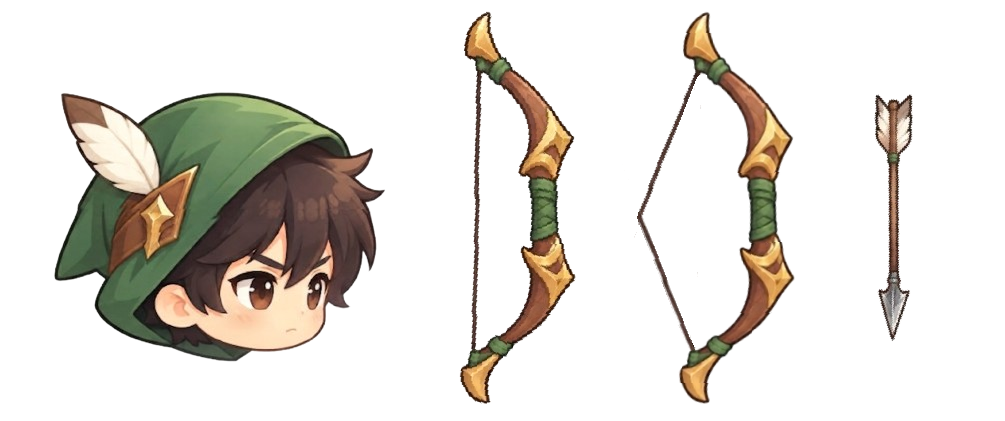
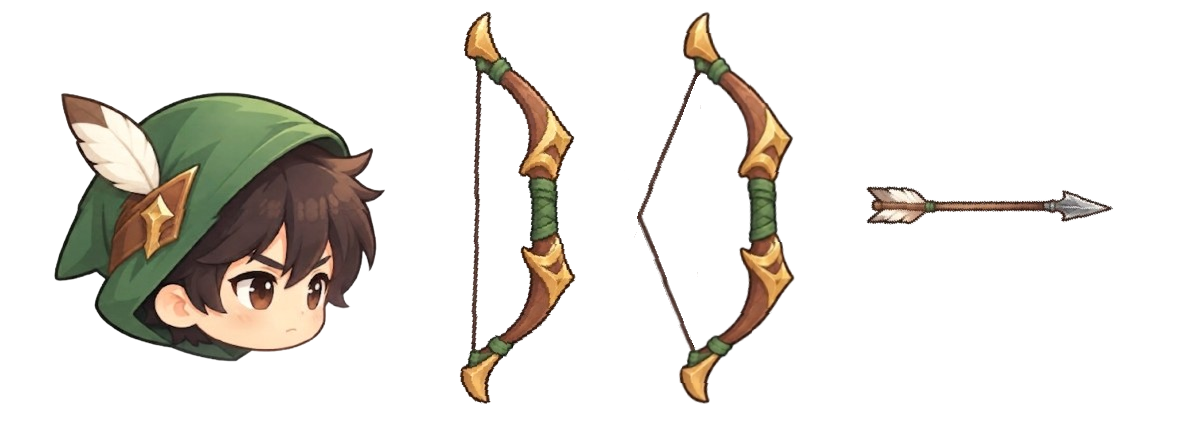
Update: Arrow Aim

Changed region(s): [[0.0308, 0.0309, 0.6786, 0.9572], [0.6786, 0.0309, 0.9562, 0.9572]]

diff --git a/Assets/Scripts/Objects/Player/BasicAttack.cs b/Assets/Scripts/Objects/Player/BasicAttack.cs
@@ -16,6 +16,7 @@ public class BasicAttack : MonoBehaviour
     private float attackTimer;
     private SpriteRenderer bowRenderer;
     private Sprite defaultBowSprite;
+    private Transform headTransform;
     private Transform arrowTransform;
     private Coroutine bowDrawRoutine;
     private Vector3 arrowRestLocalPosition;
@@ -28,6 +29,7 @@ public class BasicAttack : MonoBehaviour
             player = GetComponent<Player>();
         }
 
+        headTransform = transform.Find("Head");
         foreach (SpriteRenderer spriteRenderer in GetComponentsInChildren<SpriteRenderer>(true))
         {
             if (spriteRenderer.transform.name == "Bow")
@@ -72,6 +74,115 @@ public class BasicAttack : MonoBehaviour
 
     private void LaunchProjectile(Enemy target)
     {
+        if (bowDrawRoutine != null)
+        {
+            StopCoroutine(bowDrawRoutine);
+            if (bowRenderer != null)
+            {
+                bowRenderer.sprite = defaultBowSprite;
+            }
+
+            if (arrowTransform != null && hasArrowRestPosition)
+            {
+                arrowTransform.localPosition = arrowRestLocalPosition;
+            }
+        }
+
+        if (arrowTransform != null && !hasArrowRestPosition)
+        {
+            arrowRestLocalPosition = arrowTransform.localPosition;
+            hasArrowRestPosition = true;
+        }
+
+        bowDrawRoutine = StartCoroutine(DrawAndFire(target));
+    }
+
+    private IEnumerator DrawAndFire(Enemy target)
+    {
+        float duration = Mathf.Max(bowDrawDuration, 0.01f);
+        float pullbackDuration = duration * 0.6f;
+        Vector3 pulledBackLocalPosition = arrowRestLocalPosition;
+        if (arrowTransform != null)
+        {
+            Transform aimTransform = arrowTransform.parent;
+            Vector3 pullDirection = headTransform != null
+                ? arrowTransform.position - headTransform.position
+                : aimTransform != null ? aimTransform.up : arrowTransform.up;
+            if (pullDirection.sqrMagnitude <= Mathf.Epsilon)
+            {
+                pullDirection = aimTransform != null ? aimTransform.up : arrowTransform.up;
+            }
+
+            pullDirection.Normalize();
+            Vector3 pullbackOffset = aimTransform != null
+                ? aimTransform.InverseTransformVector(pullDirection * arrowPullbackDistance)
+                : pullDirection * arrowPullbackDistance;
+            pulledBackLocalPosition -= pullbackOffset;
+        }
+
+        if (bowRenderer != null && drawingBowSprite != null)
+        {
+            bowRenderer.sprite = drawingBowSprite;
+        }
+
+        float elapsed = 0f;
+        while (elapsed < pullbackDuration)
+        {
+            elapsed += Time.deltaTime;
+            float progress = Mathf.SmoothStep(0f, 1f, Mathf.Clamp01(elapsed / pullbackDuration));
+            if (arrowTransform != null)
+            {
+                arrowTransform.localPosition = Vector3.Lerp(
+                    arrowRestLocalPosition,
+                    pulledBackLocalPosition,
+                    progress);
+            }
+
+            yield return null;
+        }
+
+        if (arrowTransform != null)
+        {
+            arrowTransform.localPosition = pulledBackLocalPosition;
+        }
+
+        if (target != null && !target.IsDead)
+        {
+            SpawnProjectile(target);
+        }
+
+        if (arrowTransform != null)
+        {
+            elapsed = 0f;
+            float releaseDuration = duration - pullbackDuration;
+            while (elapsed < releaseDuration)
+            {
+                elapsed += Time.deltaTime;
+                float progress = Mathf.SmoothStep(0f, 1f, Mathf.Clamp01(elapsed / releaseDuration));
+                arrowTransform.localPosition = Vector3.Lerp(
+                    pulledBackLocalPosition,
+                    arrowRestLocalPosition,
+                    progress);
+                yield return null;
+            }
+
+            arrowTransform.localPosition = arrowRestLocalPosition;
+        }
+        else
+        {
+            yield return new WaitForSeconds(duration - pullbackDuration);
+        }
+
+        if (bowRenderer != null)
+        {
+            bowRenderer.sprite = defaultBowSprite;
+        }
+
+        bowDrawRoutine = null;
+    }
+
+    private void SpawnProjectile(Enemy target)
+    {
         GameObject projectileSource = arrowTransform != null
             ? arrowTransform.gameObject
             : projectilePrefab;
@@ -102,82 +213,6 @@ public class BasicAttack : MonoBehaviour
         }
 
         projectile.Initialize(target, player.attackDamage, projectileSpeed, projectileColor);
-        PlayBowDraw();
-    }
-
-    private void PlayBowDraw()
-    {
-        if (bowRenderer == null || drawingBowSprite == null)
-        {
-            return;
-        }
-
-        if (bowDrawRoutine != null)
-        {
-            StopCoroutine(bowDrawRoutine);
-            bowRenderer.sprite = defaultBowSprite;
-            if (arrowTransform != null && hasArrowRestPosition)
-            {
-                arrowTransform.localPosition = arrowRestLocalPosition;
-            }
-        }
-
-        if (arrowTransform != null && !hasArrowRestPosition)
-        {
-            arrowRestLocalPosition = arrowTransform.localPosition;
-            hasArrowRestPosition = true;
-        }
-
-        bowDrawRoutine = StartCoroutine(ShowDrawingBow());
-    }
-
-    private IEnumerator ShowDrawingBow()
-    {
-        float duration = Mathf.Max(bowDrawDuration, 0.01f);
-        bowRenderer.sprite = drawingBowSprite;
-
-        if (arrowTransform != null)
-        {
-            Vector3 pulledBackPosition = arrowRestLocalPosition - Vector3.up * arrowPullbackDistance;
-            float elapsed = 0f;
-            const float pullbackPortion = 0.65f;
-
-            while (elapsed < duration)
-            {
-                elapsed += Time.deltaTime;
-                float progress = Mathf.Clamp01(elapsed / duration);
-                if (progress < pullbackPortion)
-                {
-                    float pullbackProgress = Mathf.SmoothStep(0f, 1f, progress / pullbackPortion);
-                    arrowTransform.localPosition = Vector3.Lerp(
-                        arrowRestLocalPosition,
-                        pulledBackPosition,
-                        pullbackProgress);
-                }
-                else
-                {
-                    float releaseProgress = Mathf.SmoothStep(
-                        0f,
-                        1f,
-                        (progress - pullbackPortion) / (1f - pullbackPortion));
-                    arrowTransform.localPosition = Vector3.Lerp(
-                        pulledBackPosition,
-                        arrowRestLocalPosition,
-                        releaseProgress);
-                }
-
-                yield return null;
-            }
-
-            arrowTransform.localPosition = arrowRestLocalPosition;
-        }
-        else
-        {
-            yield return new WaitForSeconds(duration);
-        }
-
-        bowRenderer.sprite = defaultBowSprite;
-        bowDrawRoutine = null;
     }
 
     private Enemy FindClosestEnemy()

diff --git a/Assets/Scripts/Objects/Player/BasicProjectile.cs b/Assets/Scripts/Objects/Player/BasicProjectile.cs
@@ -8,7 +8,6 @@ public class BasicProjectile : MonoBehaviour
     private float trailLength;
     private LineRenderer lineRenderer;
     private SpriteRenderer spriteRenderer;
-    private float spriteRotationOffset;
 
     public void Initialize(Enemy newTarget, int newDamage, float newSpeed, Color color)
     {
@@ -23,8 +22,7 @@ public class BasicProjectile : MonoBehaviour
         else
         {
             Vector3 initialDirection = (target.transform.position - transform.position).normalized;
-            float directionAngle = Mathf.Atan2(initialDirection.y, initialDirection.x) * Mathf.Rad2Deg;
-            spriteRotationOffset = transform.eulerAngles.z - directionAngle;
+            RotateArrowAlong(initialDirection);
         }
     }
 
@@ -54,8 +52,7 @@ public class BasicProjectile : MonoBehaviour
 
         if (spriteRenderer != null)
         {
-            float directionAngle = Mathf.Atan2(direction.y, direction.x) * Mathf.Rad2Deg;
-            transform.rotation = Quaternion.Euler(0f, 0f, directionAngle + spriteRotationOffset);
+            RotateArrowAlong(direction);
         }
         else if (lineRenderer != null)
         {
@@ -68,6 +65,12 @@ public class BasicProjectile : MonoBehaviour
             target.TakeDamage(damage);
             Destroy(gameObject);
         }
+    }
+
+    private void RotateArrowAlong(Vector3 direction)
+    {
+        float directionAngle = Mathf.Atan2(direction.y, direction.x) * Mathf.Rad2Deg;
+        transform.rotation = Quaternion.Euler(0f, 0f, directionAngle - 90f);
     }
 
     private void SetupLineRenderer(Color color)

diff --git a/Assets/Scripts/Objects/Player/Movement.cs b/Assets/Scripts/Objects/Player/Movement.cs
@@ -29,6 +29,7 @@ public class Movement : MonoBehaviour
     private float dashCooldownCounter;
     private bool dashRequested;
     private bool headFacesLeftByDefault;
+    private Quaternion arrowRestLocalRotation;
 
     private void Awake()
     {
@@ -83,6 +84,7 @@ public class Movement : MonoBehaviour
             if (arrowTransform != null)
             {
                 arrowTransform.SetParent(aimPivot, true);
+                arrowRestLocalRotation = arrowTransform.localRotation;
             }
         }
 
@@ -224,6 +226,19 @@ public class Movement : MonoBehaviour
 
         if (closestEnemy == null)
         {
+            if (aimPivot != null)
+            {
+                aimPivot.rotation = Quaternion.Slerp(
+                    aimPivot.rotation,
+                    transform.rotation,
+                    Time.deltaTime * 10f);
+            }
+
+            if (arrowTransform != null)
+            {
+                arrowTransform.localRotation = arrowRestLocalRotation;
+            }
+
             return;
         }
 
@@ -236,6 +251,11 @@ public class Movement : MonoBehaviour
                 aimPivot.rotation,
                 aimRotation,
                 Time.deltaTime * 10f);
+        }
+
+        if (arrowTransform != null)
+        {
+            arrowTransform.localRotation = Quaternion.identity;
         }
     }
 
